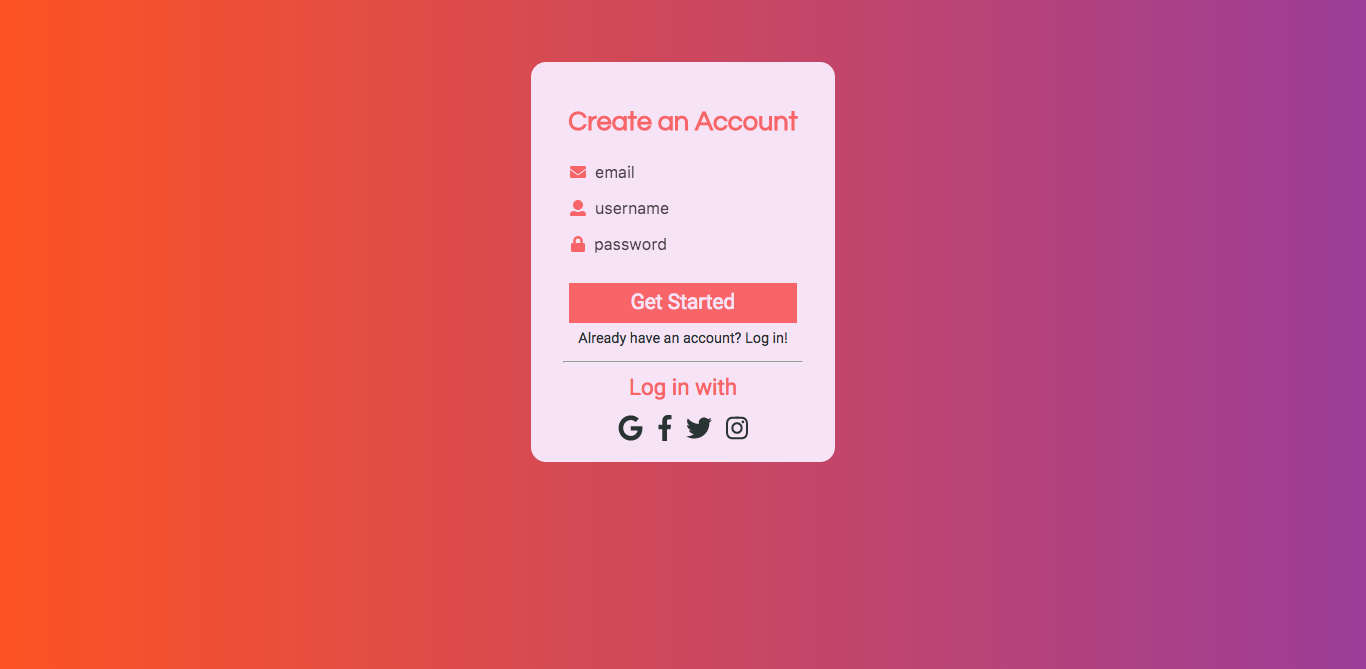
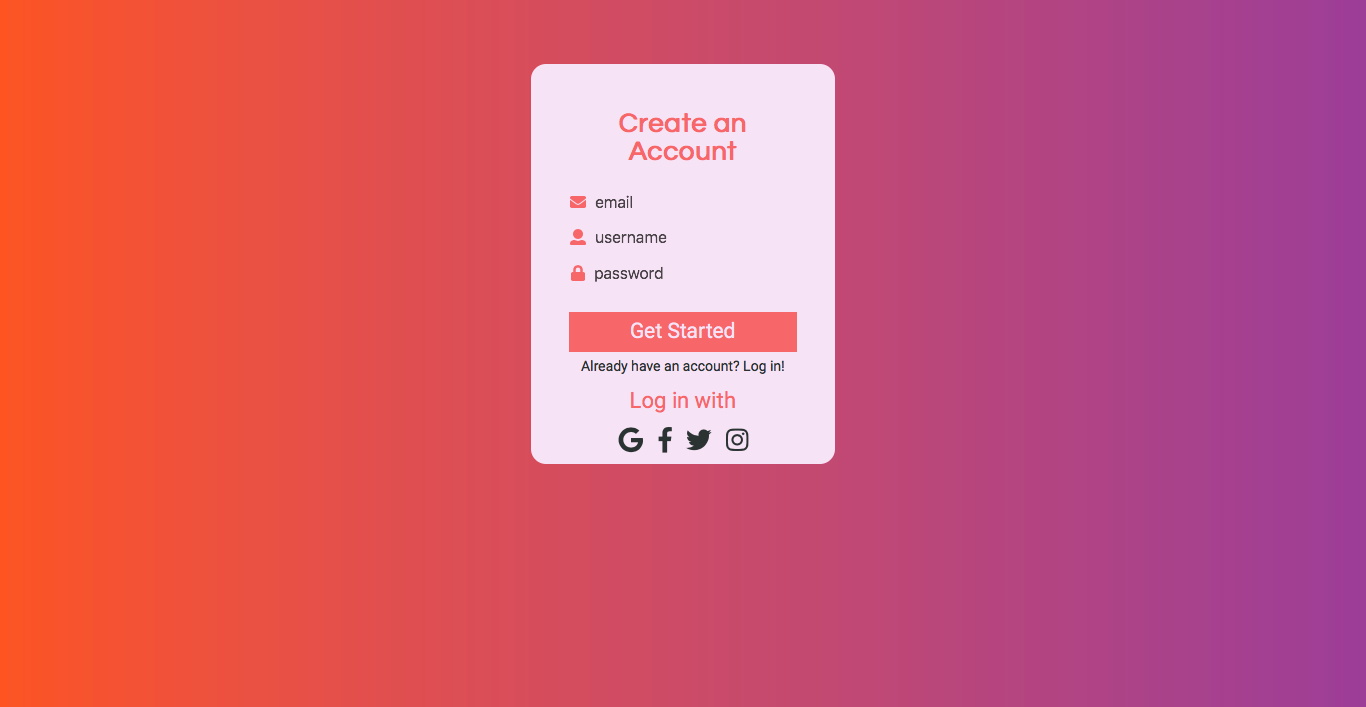
removed <hr> line
removed <hr> line to improve UI design for safari

Changed region(s): [[0.369, 0.2392, 0.6149, 0.6876], [0.4305, 0.1495, 0.5842, 0.2392], [0.5842, 0.0897, 0.6149, 0.1196]]

diff --git a/day-1/js/index.js b/day-1/js/index.js
@@ -6,30 +6,30 @@ $(document).ready(function() {
       
       // animation for #email-container
       if ($("#email-container").css("opacity") == "1") {
-          $("#email-container").animate({opacity: "0"});
+          $("#email-container").stop().animate({opacity: "0"});
       } else {
-          $("#email-container").animate({opacity: "1"});
+          $("#email-container").stop().animate({opacity: "1"});
       }
       
       // animation for #login-container
       if ($("#login-container").css("bottom") == "30px") {
-          $("#login-container").animate({bottom: "0"});
+          $("#login-container").stop().animate({bottom: "1px"});
       } else {
-          $("#login-container").animate({bottom: "30px"});
+          $("#login-container").stop().animate({bottom: "30px"});
       }
       
       // animation for button 
       if ($("button").css("bottom") == "30px") {
-          $("button").animate({bottom: "0"});
+          $("button").stop().animate({bottom: "1px"});
       } else {
-          $("button").animate({bottom: "30px"});
+          $("button").stop().animate({bottom: "30px"});
       }
       
       // animation for #alt-login-container 
       if ($("#alt-login-container").css("bottom") == "30px") {
-          $("#alt-login-container").animate({bottom: "0"});
+          $("#alt-login-container").stop().animate({bottom: "1px"});
       } else {
-          $("#alt-login-container").animate({bottom: "30px"});
+          $("#alt-login-container").stop().animate({bottom: "30px"});
       }
       
       var currentPage = $("#default-login").text();

diff --git a/day-1/index.html b/day-1/index.html
@@ -36,7 +36,7 @@
   <div id="alt-login-container">
     <p id="forgot-password">Forgot password?</p>
     <p id="default-login">Already have an account? Log in!</p>
-    <hr>
+ 
     <p id="alt-login">Log in with</p>
      <i class="fab fa-google alt-icons"></i>
      <i class="fab fa-facebook-f alt-icons"></i>
